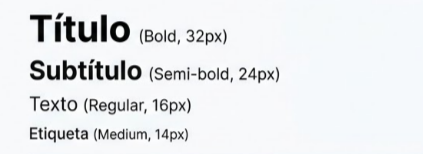
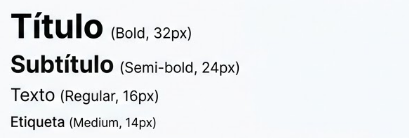
doc: image typography style guidelines

diff --git a/report/40-cap4-product-design.md b/report/40-cap4-product-design.md
@@ -20,10 +20,7 @@ El logo de ElectroLink representa la esencia de la plataforma como un puente mod
 
 La tipografía de nuestra marca tiene un estilo moderno y ordenado, va de la mano con la imagen de nuestra marca y lo que nosotros, como startup, queremos transmitir. Se usará un lenguaje casual y sencillo, con la finalidad de que el público se sienta cómodo usando nuestra plataforma. La tipografía debe ser clara y legible, utilizando la fuente "Public Sans", que se mantendrá consistente en toda la plataforma. Los títulos y subtítulos usarán una fuente ligeramente más grande que el cuerpo del texto para mejorar la jerarquía visual. En general, se debe usar un tamaño que garantice que todo el texto sea fácilmente legible tanto en pantallas pequeñas como grandes.
 
-::: {style="text-align: left;"}
 ![Typography](assets/img/cap4/styleguidelines/typography.png){ width=250px }
-:::
-
 
 #### Colors:
 
